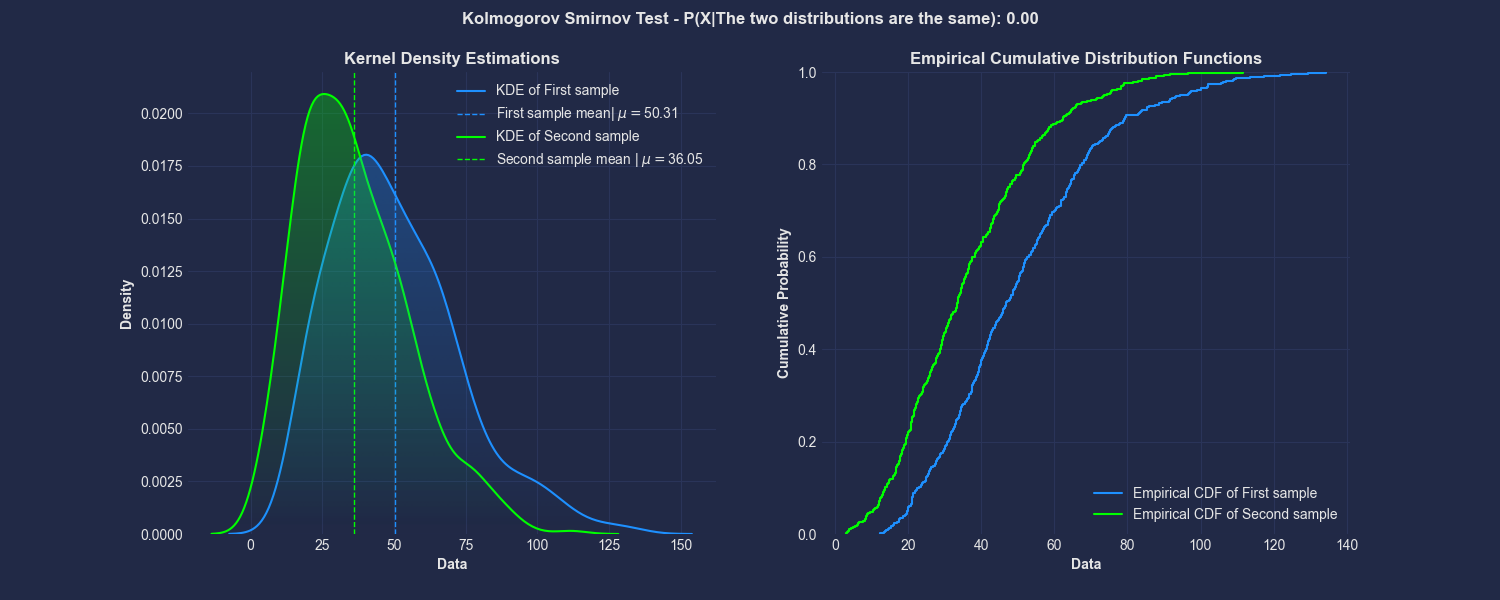
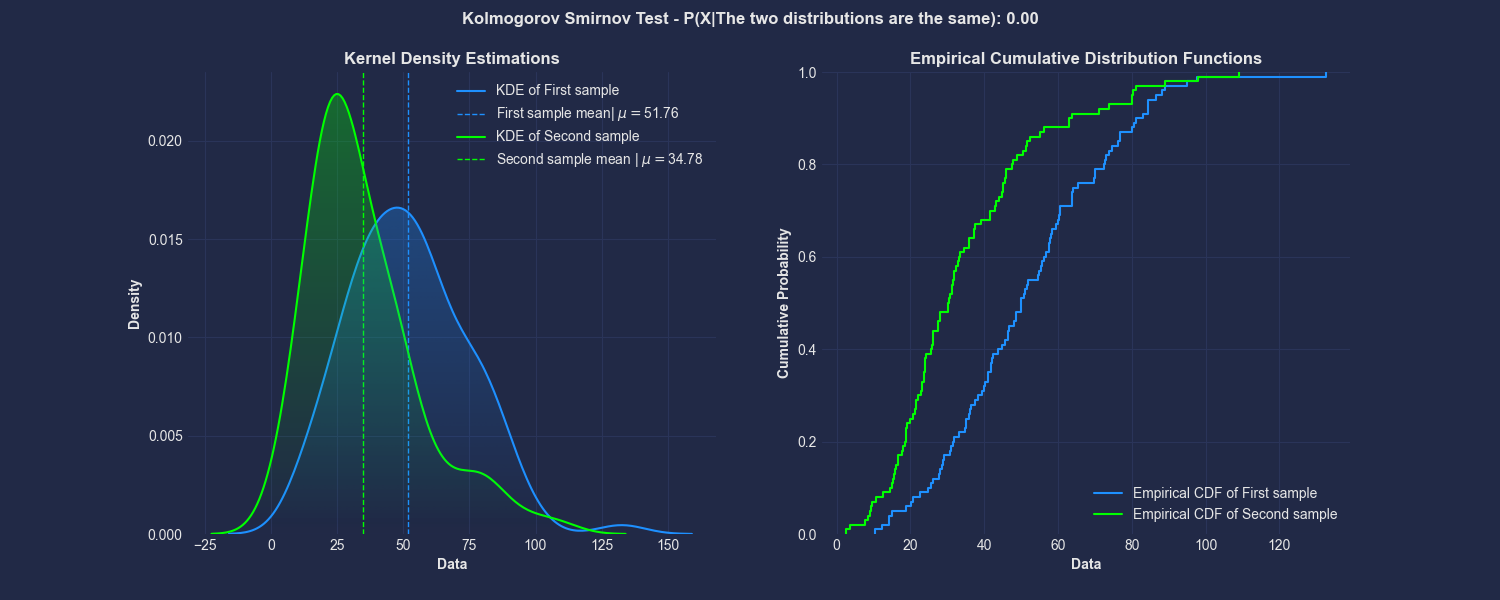
Modifying the samples in the example to have more interesting cases

diff --git a/example.py b/example.py
@@ -9,12 +9,17 @@ from src.two_samples_tests import (
 from src.one_sample_tests import ShapiroWilkTest
 
 # mocking data
-sample1 = np.random.gamma(shape=5, scale=10, size=500)
-sample2 = np.random.gamma(shape=3, scale=12, size=500)
 
 # Parametric central tendancy test (assumption: samples have the same variance)
+sample1 = np.random.normal(loc=10, scale=3, size=100)
+sample2 = np.random.normal(loc=9.3, scale=3, size=100)
+
 tester = StudentTest()
-tester.fit(sample1, sample2, plot_results=True)
+tester.fit(
+    np.random.normal(loc=10, scale=3, size=100),
+    np.random.normal(loc=9.3, scale=4.5, size=100),
+    plot_results=True,
+)
 print(tester.params)
 
 # Non-parametric central tendancy test
@@ -23,6 +28,9 @@ tester.fit(sample1, sample2, plot_results=True)
 print(tester.params)
 
 # Non-parametric dispersion test
+sample1 = np.random.gamma(shape=5, scale=10, size=100)
+sample2 = np.random.gamma(shape=3, scale=12, size=100)
+
 tester = LeveneTest()
 tester.fit(sample1, sample2, plot_results=True)
 print(tester.params)
